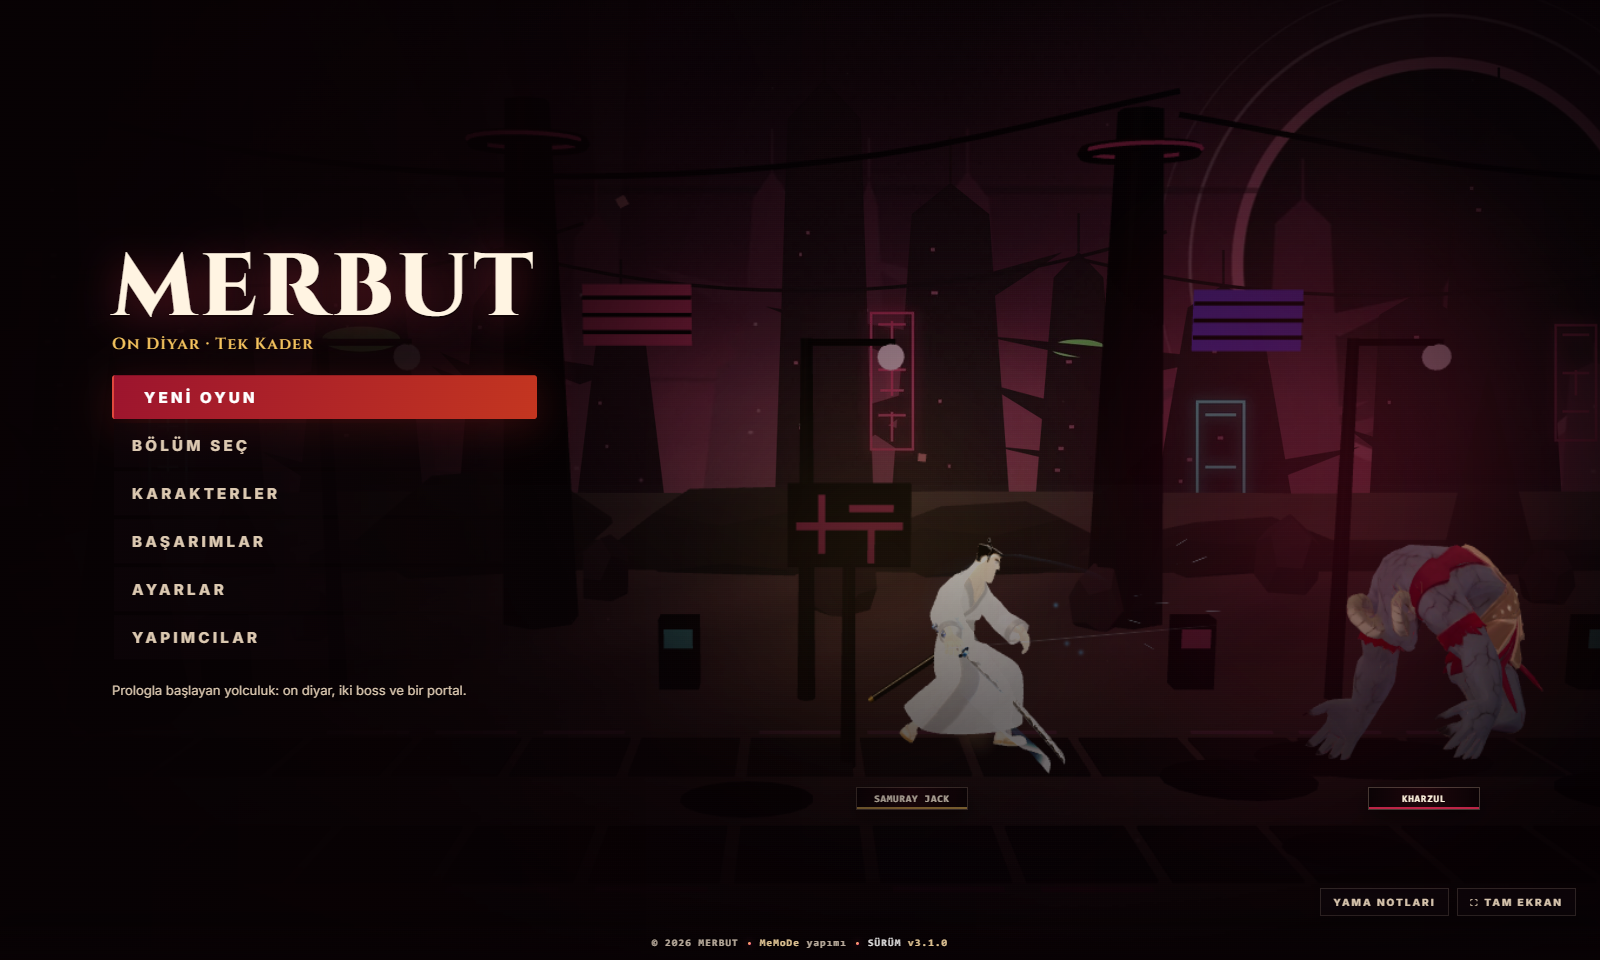
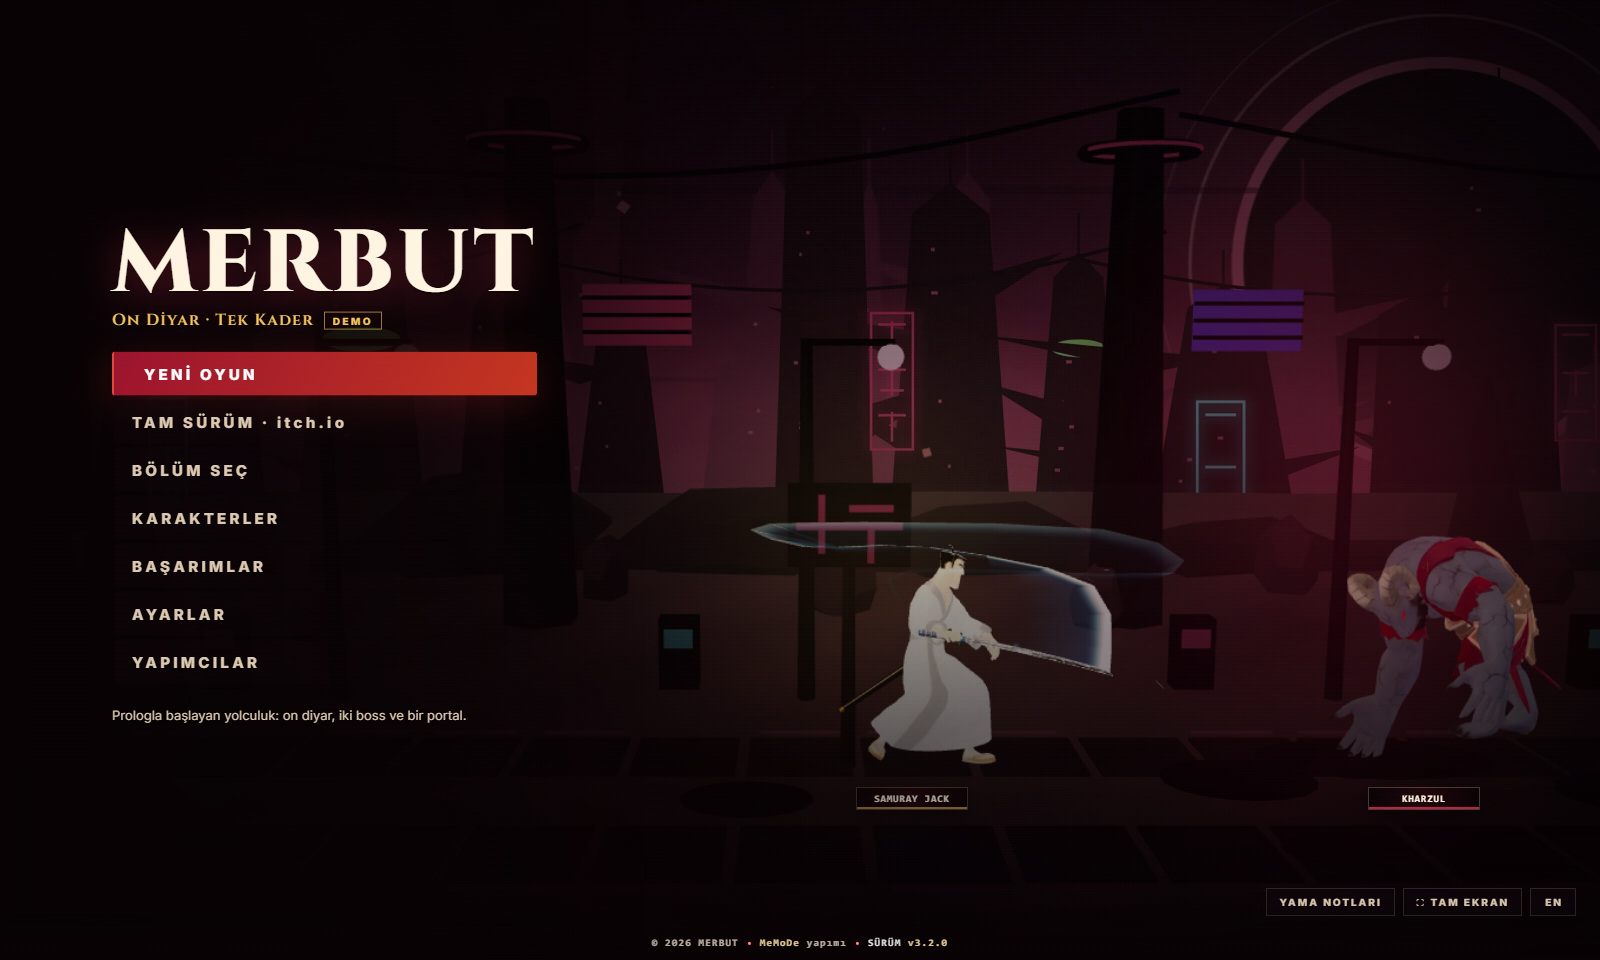
Refresh the previews that showed older versions (v0.8.3)
Every preview was compared with its live deployment; the twelve that no
longer matched were re-captured from the live sites with real input:

- Merbut menu: v3.2.0 demo build (DEMO badge, full game on itch.io, EN)
- Bibish: v0.4.10 HUD instead of the v0.3.2 capture
- AudioRoom: all four worlds now show Sürüm 2 (September 2026)
- CV: both crops of the current document (itch.io link, AtKafası, academic links)
- Son 40 Saniye, Card Race, Battleship, Papaz Kaçtı: footer, help button
  and card-draw updates

Titles, gameplay clips and the remaining previews still match and were
left as they are. SOURCES.md records the new captures.

diff --git a/public/project-previews/SOURCES.md b/public/project-previews/SOURCES.md
@@ -4,7 +4,10 @@
 - `mrap.png`: local verified demo capture from `mrap.vercel.app`
 - `merbut-menu.png`, `merbut-titlecard.png`, `merbut-combat.png`: live captures of v3.1.0 at
   `merbut.vercel.app` (main menu duel, the Aku Metropolü album title card, and the first fight
-  with Jack's shield up), taken on 2026-09-26 with real keyboard input from a fresh save
+  with Jack's shield up), taken on 2026-09-26 with real keyboard input from a fresh save.
+  `merbut-menu.png` was re-captured on 2026-10-12 from v3.2.0, the web demo build (DEMO badge,
+  "TAM SÜRÜM · itch.io" entry, EN button); the title card, the first fight and the gameplay clip
+  were re-checked against v3.2.0 and are unchanged
 - `stresst-smash.jpg`, `stresst-aftermath.jpg`, `stresst-street.jpg`, `stresst-cleanup.jpg`:
   in-game canvas captures of the sTressT demo (`stresst-tan.vercel.app`, same build run locally),
   taken on 2026-10-01 with real swings, carries and physics (a sledgehammer hit on a vase, the
@@ -20,19 +23,26 @@
   locally), taken on 2026-10-12 at 1600×900 (the frozen rain under the washing lines of photographs,
   walking under the giant chair, the giant print at the end of the alley, the mirror sea under the
   photograph moon, the print developing in the photographer's hand)
-- `bibish.png`: owner-supplied local gameplay capture from Bibish
+- `bibish.png`: live capture of v0.4.10 at `bibish-iota.vercel.app`, taken on 2026-10-12: joined a
+  match for Kırmızı Ordu, spawned at the K3 outpost and fired the rifle at it with real mouse and
+  keyboard input (quality set to Ultra in the game's own settings). Only one player was online,
+  so the leaderboard has a single row. Replaces the owner-supplied v0.3.2 capture
 - `remember-ouroboros.png`: owner-supplied capture from `remember-you-must-die-web.vercel.app`
 - `desain.png`: live project at `des-ai-n.vercel.app`
-- `audioroom-mukemmel-bosluk.png`: owner-supplied Mükemmel Boşluk capture from `audio-room-ecru.vercel.app`
 - `etkinlink-1.png` through `etkinlink-4.png`: exported from the owner-supplied EtkinLink Figma prototype (Discover, Rooms, Match, and Direct Chat frames)
 - `wmatch-1.png` through `wmatch-4.png`: owner-supplied WMatch demo-account captures
 - `sorita-1.png` through `sorita-3.png`: owner-supplied SoRita demo-account captures
 - `universe-1.png` through `universe-3.png`: owner-supplied UniVerse demo-account captures
-- `card-race.png`: live capture from `card-race-game.vercel.app`
-- `battleship.png`: live capture from `battleship-pygame.vercel.app`
-- `old-maid.png`: live capture from `old-maid-card-game.vercel.app`
+- `card-race.png`: live capture from `card-race-game.vercel.app`, re-captured on 2026-10-12 after
+  the help dialog was added (closed with "Oyuna başla", then nine real "Kart çek" clicks)
+- `battleship.png`: live capture from `battleship-pygame.vercel.app`, re-captured on 2026-10-12
+  with the "Yardım" button (rules closed, Randomize → Start, one shot on the radar). Playwright's
+  `page.screenshot` hangs on this page; CDP `Page.captureScreenshot` works
+- `old-maid.png`: live capture from `old-maid-card-game.vercel.app`, re-captured on 2026-10-12 after
+  the card-draw update (wider hands, the "SEÇTİĞİN KART" reveal), on the player's fourth pick
 - `tictactoe.png`: live capture from `tic-tac-toe-game-delta-jade.vercel.app`
-- `son-40-saniye.png`: live capture from `google-history-clear-game.vercel.app`
+- `son-40-saniye.png`: live capture from `google-history-clear-game.vercel.app`, re-captured on
+  2026-10-12 with the copyright footer
 - `atkafasi.png`: live capture from `atkafasifanzin.gumroad.com`
 - `quantum-nobel-2022.jpg`, `quantum-schrodingers-cat.jpg`, `quantum-einstein-bohr.jpg`: real
   images extracted directly from `quantuuuum.pdf` (the 2022 Nobel Prize laureates, the
@@ -74,8 +84,10 @@
   and `atkafasi-stickers-all.webp` all 18 — arrangements of the real captures, not mockups. The
   launch sticker's QR code decodes to `linktr.ee/Atkafasifanzin`. The illustration on page 8 is
   signed by Derin Su (`@theoryofapen`), which the project description credits
-- `cayankuzu-cv.png`, `cayankuzu-cv-projects.png`: captures of the two-column CV document
-  (`/tr`, header and "Seçili Projeler" section), taken from the local build on 2026-09-30
+- `cayankuzu-cv.png`, `cayankuzu-cv-projects.png`: 1040×650 captures of the two-column CV document
+  at `cayankuzucv.vercel.app/tr`, re-taken from the live site on 2026-10-12 (the top of the
+  document, and the selected projects from Merbut through AtKafası Fanzin into Akademik
+  Çalışmalar)
 - `kepce-operatoru.jpg`: real frame extracted and cropped from the owner-supplied 2020 physics
   project video (`InShot_20200118_212358091.mp4`), showing the full desk setup — the popsicle-stick
   arm tower, the Nokia 5110 LCD, and the 4-potentiometer breadboard control panel
@@ -120,7 +132,8 @@ production build:
 `card-race` kept its existing static screenshot only. Its "Kart çek" button did not respond to
 automated clicks after several different approaches (coordinate clicks, text-locator clicks,
 longer waits), so no real gameplay footage could be captured for it; no video was fabricated as
-a substitute.
+a substitute. As of 2026-10-12 the button does respond to `getByRole` clicks, so a real clip
+could be recorded later.
 
 AudioRoom no longer uses a video (`audioroom-gameplay.mp4` removed) — see below, it now shows a
 real photo per completed album instead.
@@ -140,15 +153,19 @@ real photo per completed album instead.
 
 ## AudioRoom album photos
 
-`audioroom-mukemmel-bosluk.png` (existing, unchanged) plus three more real captures, one per
-other completed ("YAYINDA") album confirmed by paging through the live library carousel:
+One real capture per completed ("YAYINDA") album, all re-taken from the live site on 2026-10-12.
+Every world now has two versions; "Evrene gir" asks which one to open. The captures show
+"Sürüm 2 · güncel" (September 2026, third-person avatar), about 8–9 seconds after entering. The
+earlier Sürüm 1 captures (side panels, map, "Şimdi Çalıyor" player) were replaced; that version
+still lives under `/depo/`.
 
-- `audioroom-hayko-cepkin.png`: owner-supplied capture of the "Beni Büyüten Şarkılar Vol.1" world
-- `audioroom-klostrofobik-kaplumbaga.png`: owner-supplied capture of Henry the Lee's
-  "Klostrofobik Kaplumbağa" world
-- `audioroom-kuantum-dolaniklik.png`: real capture of Henry the Lee's "Kuantum Dolanıklık" world
-  (the site's own "4 yayında" claim didn't line up with only 3 known worlds until this one — a
-  single track, easy to miss in the carousel — was found and confirmed YAYINDA)
+- `audioroom-mukemmel-bosluk.png`: Redd's "Mükemmel Boşluk" world, default spawn view
+- `audioroom-hayko-cepkin.png`: Hayko Cepkin's "Beni Büyüten Şarkılar Vol.1" world; the avatar was
+  strafed left for half a second with the A key so both titles are readable
+- `audioroom-klostrofobik-kaplumbaga.png`: Henry the Lee's "Klostrofobik Kaplumbağa" world, default
+  spawn view
+- `audioroom-kuantum-dolaniklik.png`: Henry the Lee's "Kuantum Dolanıklık" world (a single track,
+  easy to miss in the carousel), default spawn view
 
 The two still-YAKINDA worlds (Redd — 21, Pink Floyd — The Dark Side of the Moon) are correctly
 left out.
